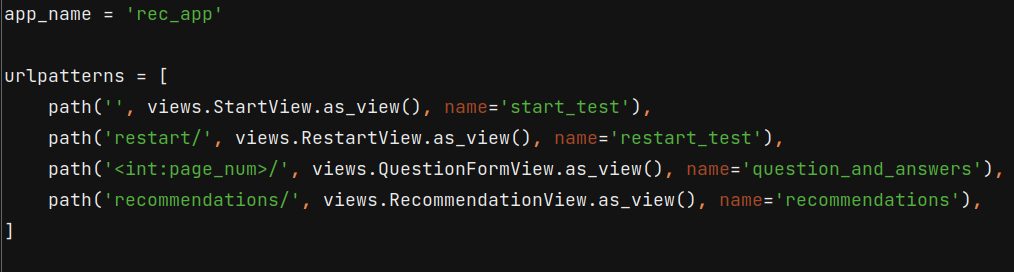
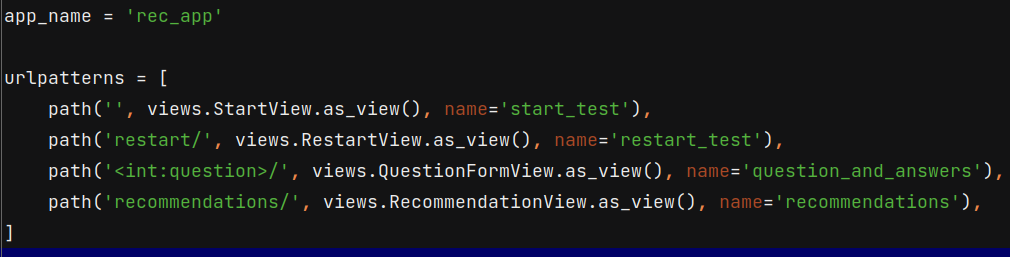
simplify test view

diff --git a/recommendations/rec_app/templates/rec_app/restart_test.html b/recommendations/rec_app/templates/rec_app/restart_test.html
@@ -6,11 +6,13 @@
 <div class="d-grid gap-2 d-md-flex justify-content-center">
     <a class="btn btn-success"
        href=" {% url 'rec_app:recommendations'%}" role="button"
-       style="--bs-btn-padding-y: .25rem; --bs-btn-padding-x: .5rem; --bs-btn-font-size: 2.75rem;">Перейти к
+       style="--bs-btn-padding-y: .25rem; --bs-btn-padding-x: .5rem;
+        --bs-btn-font-size: 2.75rem;">Перейти к
         результатам</a>
     <a class="btn btn-success btn-block btn-lg"
-       href=" {% url 'rec_app:question_and_answers' page_num=1%}" role="button"
-       style="--bs-btn-padding-y: .25rem; --bs-btn-padding-x: .5rem; --bs-btn-font-size: 2.75rem;">Пройти тест
+       href=" {% url 'rec_app:question_and_answers' question=1%}" role="button"
+       style="--bs-btn-padding-y: .25rem; --bs-btn-padding-x: .5rem;
+        --bs-btn-font-size: 2.75rem;">Пройти тест
         заново</a>
 </div>
 {% endblock %}

diff --git a/recommendations/rec_app/views.py b/recommendations/rec_app/views.py
@@ -86,44 +86,42 @@ class QuestionFormView(LoginRequiredMixin, FormView):
     form_class = AnswerForm
     redirect_field_name = reverse_lazy('users:index')
     success_url = 'rec_app:recommendations'
-    page_num: int
+    question: int
 
-    def get_page_num(self):
-        if not hasattr(self, 'page_num'):
-            self.page_num = self.kwargs.get('page_num')
-        return self.page_num
+    def get_question(self):
+        if not hasattr(self, 'question'):
+            self.question = get_object_or_404(Question, pk=self.kwargs.get('question')).pk
+        return self.question
 
     def get_context_data(self, **kwargs):
         context = super().get_context_data(**kwargs)
-        context['question'] = get_object_or_404(Question, pk=self.get_page_num()).pk
+        context['question'] = self.get_question()
         return context
 
     def get(self, request, *args, **kwargs):
         last_page = Question.objects.latest('pk').pk + 1
-        page_num = self.get_page_num()
-        if page_num > last_page or page_num == 0:
-            return render(request, '404.html')
         # когда ответил на последний вопрос
-        if page_num == last_page:
-            votes = len(ResultOfTest.objects.filter(user=request.user).annotate(count=Count('user')))
+        if self.get_question() == last_page:
+            votes = len(ResultOfTest.objects.filter(user=request.user)
+                        .annotate(count=Count('user')))
             if votes == last_page - 1:
                 return redirect(self.get_success_url())
             else:
-                messages.error(request, 'Вы ответили не на все вопросы, начните тестирование с начала.')
+                messages.error(request, 'Вы ответили не на все вопросы,'
+                                        ' начните тестирование с начала.')
                 return redirect(reverse('rec_app:question_and_answers', args=(1,)))
         return self.render_to_response(self.get_context_data())
 
     def get_form_kwargs(self):
         kwargs = super(QuestionFormView, self).get_form_kwargs()
-        kwargs['page_num'] = self.get_page_num()
+        kwargs['question'] = self.get_question()
         kwargs['user'] = self.request.user
         return kwargs
 
     def form_valid(self, form):
         form.save()
-        page_num = self.get_page_num() + 1
-#        page_num += 1
-        return redirect(reverse('rec_app:question_and_answers', args=(page_num,)))
+        question = self.get_question() + 1
+        return redirect(reverse('rec_app:question_and_answers', args=(question,)))
 
 
 class StartView(LoginRequiredMixin, TemplateView):

diff --git a/recommendations/rec_app/forms.py b/recommendations/rec_app/forms.py
@@ -5,13 +5,11 @@ from .models import Question, Choice, ResultOfTest
 
 class AnswerForm(forms.Form):
 
-    def __init__(self, page_num, user, *args, **kwargs):
+    def __init__(self, question, user, *args, **kwargs):
         super(AnswerForm, self).__init__(*args, **kwargs)
-        self.page = page_num
         self.user = user
         choices = []
-        question_pk = self.page
-        self.question = Question.objects.get(pk=question_pk)
+        self.question = Question.objects.get(pk=question)
         for choice in Choice.objects.all():
             choices.append((choice.votes, choice.choice_text))
 

diff --git a/recommendations/rec_app/urls.py b/recommendations/rec_app/urls.py
@@ -6,6 +6,6 @@ app_name = 'rec_app'
 urlpatterns = [
     path('', views.StartView.as_view(), name='start_test'),
     path('restart/', views.RestartView.as_view(), name='restart_test'),
-    path('<int:page_num>/', views.QuestionFormView.as_view(), name='question_and_answers'),
+    path('<int:question>/', views.QuestionFormView.as_view(), name='question_and_answers'),
     path('recommendations/', views.RecommendationView.as_view(), name='recommendations'),
 ]
